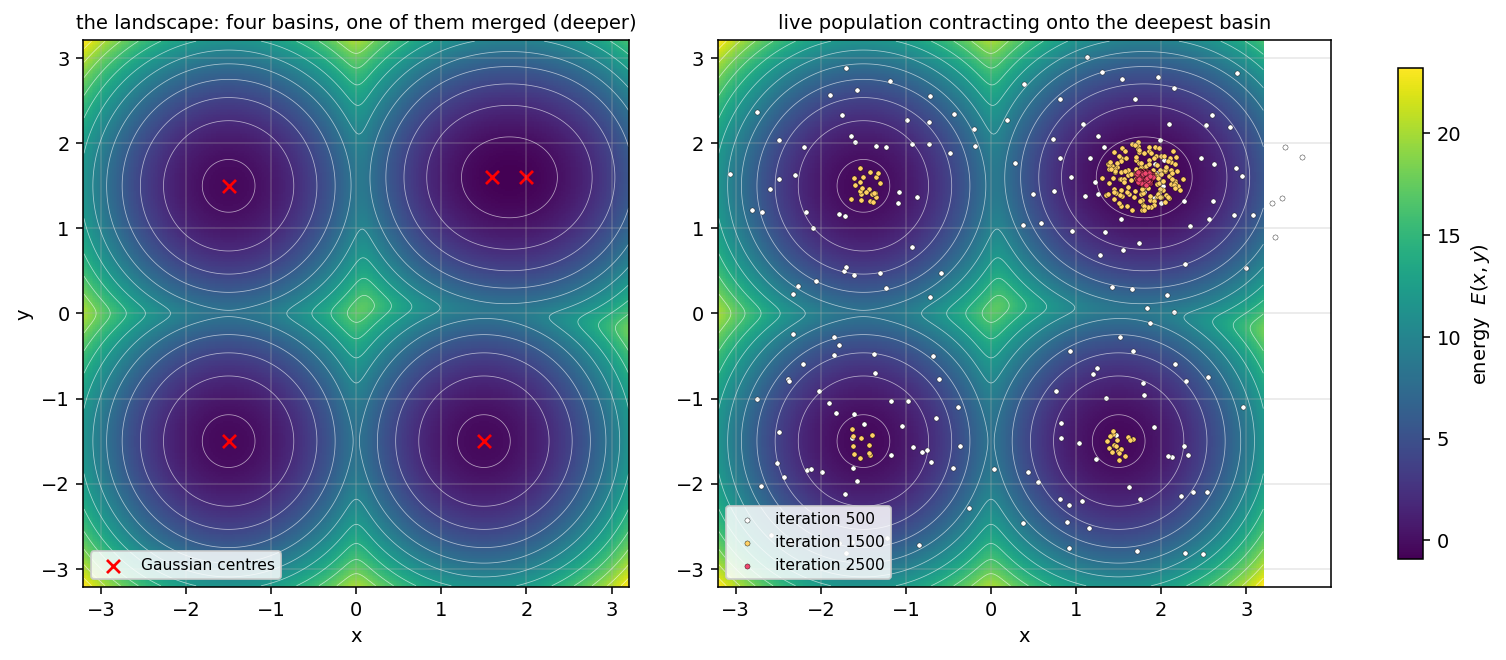
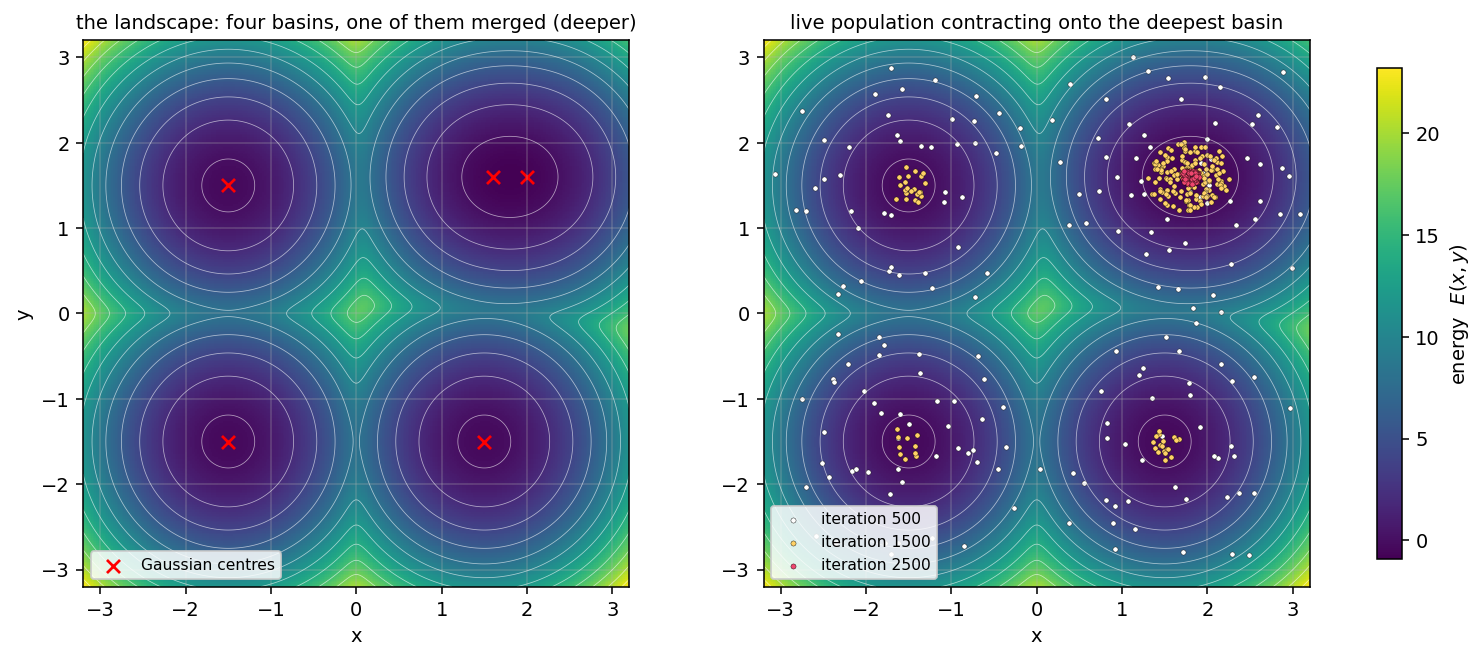
Refined gaussian and toy tutorial

diff --git a/docs/_static/figures/generate.py b/docs/_static/figures/generate.py
@@ -554,20 +554,30 @@ _TUT = FIGDIR.parents[2] / "examples" / "tutorials"
 _TUTFIG = FIGDIR / "tutorials"
 
 
+def _tutorial_config(name: str) -> dict:
+    """Load a tutorial's YAML config.
+
+    The surface figures are built from the same file the tutorial tells the
+    reader to run, so tuning a parameter moves the plot with it instead of
+    leaving the two quietly disagreeing.
+    """
+    import yaml
+
+    with open(_TUT / name / "config.yaml") as fh:
+        return yaml.safe_load(fh)
+
+
 def fig_gauss2d_surface() -> None:
     """Gaussian-mixture landscape, with the walker population contracting."""
     import jax.numpy as jnp
 
     from jaxrens.backends.toy import create_gaussian_mixture
 
-    centers = [
-        [-1.5, -1.5, 0.0],
-        [1.5, -1.5, 0.0],
-        [-1.5, 1.5, 0.0],
-        [1.60, 1.60, 0.0],
-        [2.00, 1.60, 0.0],
-    ]
-    backend = create_gaussian_mixture(centers=centers, sigma=0.35)
+    cfg = _tutorial_config("00_gaussian_2d")
+    centers = cfg["backend"]["centers"]
+    backend = create_gaussian_mixture(
+        centers=centers, sigma=cfg["backend"]["sigma"]
+    )
 
     lim = 3.2
     n = 320
@@ -594,6 +604,10 @@ def fig_gauss2d_surface() -> None:
         ax.contour(X, Y, E, levels=14, colors="w", linewidths=0.4, alpha=0.6)
         ax.set_xlabel("x")
         ax.set_aspect("equal")
+        # Pin the limits: the scatter overlay would otherwise stretch the
+        # right-hand panel and the two would no longer be comparable.
+        ax.set_xlim(-lim, lim)
+        ax.set_ylim(-lim, lim)
     axes[0].set_ylabel("y")
     fig.colorbar(im, ax=axes, label="energy  $E(x, y)$", shrink=0.9)
 
@@ -648,47 +662,54 @@ def fig_rens_toy_surface() -> None:
 
     from jaxrens.backends.toy import create_rens_toy
 
+    # Parameters come from the tutorial's own config, not from literals here:
+    # the figure has to show the surface the tutorial actually samples, and a
+    # second copy of these numbers would drift the first time either is tuned.
+    cfg = _tutorial_config("01_rens_toy")
     backend = create_rens_toy(
-        eps_rep=1.0,
-        h_rep=3.0,
-        eps_attr=1.0,
-        mu=1.0,
-        sigma=0.2,
-        r_cut=3.0,
-        n_images=8,
+        **{
+            k: v
+            for k, v in cfg["backend"].items()
+            if k not in ("type", "periodic")
+        }
     )
-    pressures = [0.5, 1.0, 1.5]
+    pressures = list(cfg["ensemble"]["pressure"])
 
+    # d on the horizontal axis, a on the vertical: the irreducible region
+    # d <= a/2 is then the *upper-left* wedge, which is how the paper orients
+    # it.  (With a horizontal it lands lower-right and reads inverted.)
     n = 260
     a_grid = np.linspace(0.5, 4.0, n)
     d_grid = np.linspace(0.0, 2.0, n)
-    A, D = np.meshgrid(a_grid, d_grid)
+    D, A = np.meshgrid(d_grid, a_grid)
 
     types = jnp.zeros(2, dtype=int)
     U = np.empty(A.shape)
     for i in range(A.shape[0]):
         for j in range(A.shape[1]):
-            a, d = A[i, j], D[i, j]
+            a, d = float(A[i, j]), float(D[i, j])
             pos = jnp.array([[0.0, 0.0, 0.0], [float(d), 0.0, 0.0]])
             cell = jnp.diag(jnp.array([float(a), 1.0, 1.0]))
             U[i, j] = float(backend(pos, types, cell).energy)
 
     # Irreducible wedge: d and a - d describe the same configuration under
-    # periodicity, so everything above d = a/2 is a mirror image.  Masking it
+    # periodicity, so everything with d > a/2 is a mirror image.  Masking it
     # is what makes the surface readable -- and matches Figure 3a of the paper.
     wedge = D <= A / 2.0
 
     fig, axes = plt.subplots(
-        1, 3, figsize=(13, 4.0), sharey=True, constrained_layout=True
+        1, 3, figsize=(12, 4.4), sharey=True, constrained_layout=True
     )
     for ax, P in zip(axes, pressures, strict=False):
         H = np.where(wedge, U + P * A, np.nan)
-        im = ax.pcolormesh(A, D, H, cmap="viridis", shading="auto")
-        ax.contour(A, D, H, levels=16, colors="w", linewidths=0.4, alpha=0.6)
-        ax.plot(a_grid, a_grid / 2.0, color="k", lw=1.0)
-        ax.set_xlabel("box length  $a$")
+        im = ax.pcolormesh(D, A, H, cmap="viridis", shading="auto")
+        ax.contour(D, A, H, levels=16, colors="w", linewidths=0.4, alpha=0.6)
+        ax.plot(a_grid / 2.0, a_grid, color="k", lw=1.0)
+        ax.set_xlabel("separation  $d$")
+        ax.set_xlim(d_grid[0], d_grid[-1])
+        ax.set_ylim(a_grid[0], a_grid[-1])
         ax.set_title(f"$P = {P}$", fontsize=10)
-    axes[0].set_ylabel("separation  $d$")
+    axes[0].set_ylabel("box length  $a$")
     fig.colorbar(im, ax=axes, label="enthalpy  $H = U + P a$", shrink=0.9)
     fig.suptitle(
         "irreducible wedge of the toy-model enthalpy surface "

diff --git a/src/jaxrens/backends/toy.py b/src/jaxrens/backends/toy.py
@@ -96,14 +96,16 @@ class RENSToyBackend:
     the physics, so it only needs to be large enough that
     ``n_images * a_min >= r_cut`` for the smallest box the prior allows.
 
-    Self-images (``i == j``, ``n != 0``) are **excluded**, following the
-    ``i != j`` restriction in eq 17.
+    Self-images (``i == j``, ``n != 0``) are **included** -- a particle
+    interacts with its own periodic images, and at box lengths near ``mu``
+    that term dominates.  Only the ``i == j``, ``n == 0`` self-term is
+    dropped.
     """
 
     def __init__(
         self,
-        eps_rep: float = 1.0,
-        h_rep: float = 3.0,
+        eps_rep: float = 10.0,
+        h_rep: float = 8.0,
         eps_attr: float = 1.0,
         mu: float = 1.0,
         sigma: float = 0.2,
@@ -138,17 +140,22 @@ class RENSToyBackend:
         x = positions[:, 0]
         a = cell[0, 0]
 
-        # All ordered pairs, then mask the diagonal: i != j, counted twice and
-        # halved, exactly as eq 17 is written.
+        # Full lattice sum: every ordered pair against every periodic image,
+        # counted twice and halved.  The ONLY term excluded is a particle
+        # with its own image at zero shift -- a particle does interact with
+        # its own images at n*a, and dropping those would remove the whole
+        # a-dependence of the energy at small box lengths, where n*a is
+        # comparable to mu and the contribution is strongly attractive.
         dx = x[:, None] - x[None, :]
-        off_diagonal = 1.0 - jnp.eye(x.shape[0])
-
         shifts = jnp.arange(-self.n_images, self.n_images + 1) * a
         d = jnp.abs(dx[:, :, None] + shifts[None, None, :])
 
-        within = d <= self.r_cut
+        self_term = jnp.eye(x.shape[0], dtype=bool)[:, :, None] & (
+            shifts[None, None, :] == 0.0
+        )
+        within = (d <= self.r_cut) & ~self_term
         pair = jnp.where(within, self.pair_energy(d), 0.0)
-        energy = 0.5 * jnp.sum(pair * off_diagonal[:, :, None])
+        energy = 0.5 * jnp.sum(pair)
 
         return BackendResult(energy=energy)
 
@@ -213,8 +220,8 @@ def create_double_well(a: float = 1.0, b: float = 1.0) -> DoubleWellBackend:
 
 
 def create_rens_toy(
-    eps_rep: float = 1.0,
-    h_rep: float = 3.0,
+    eps_rep: float = 10.0,
+    h_rep: float = 8.0,
     eps_attr: float = 1.0,
     mu: float = 1.0,
     sigma: float = 0.2,

diff --git a/src/jaxrens/cli/schema/backend.py b/src/jaxrens/cli/schema/backend.py
@@ -345,11 +345,16 @@ class RENSToyBackendSpec(BaseBackendSpec):
         description="Discriminator selecting this backend.",
     )
     eps_rep: float = Field(
-        default=1.0,
-        description="Height of the repulsive core, ``E_rep`` (eq 14).",
+        default=10.0,
+        description=(
+            "Height of the repulsive core, ``E_rep`` (eq 14).  The core is a "
+            "Gaussian and therefore *bounded*: set it too low and the two "
+            "particles simply interpenetrate, since the attraction from "
+            "their periodic self-images outweighs a finite overlap cost."
+        ),
     )
     h_rep: float = Field(
-        default=3.0,
+        default=8.0,
         description=(
             "Decay constant of the repulsive core; larger values make the "
             "repulsion narrower."

diff --git a/docs/reference/files.rst b/docs/reference/files.rst
@@ -184,12 +184,41 @@ covers every replica.
     ``n_evaluations`` / ``n_grad_evaluations`` int64 and
     ``reject_reason_counts`` of shape ``(N, n_runs, n_moves, 4)`` — the four
     buckets being accepted, likelihood, cell-geometry and prior rejection.
-    Read with :class:`~jaxrens.io.adaptation_log.AdaptationLogger`.
+
+    .. dropdown:: Load it in Python
+
+       .. code-block:: python
+
+          from jaxrens.io.adaptation_log import AdaptationLogger
+
+          log = AdaptationLogger.read("output/ns.adaptation.h5")
+          log.iterations          # (N,)                     int64
+          log.step_sizes          # (N, n_runs, n_moves)     float32
+          log.acceptance_rates    # (N, n_runs, n_moves)     float32
+          log.n_evaluations       # (N, n_runs, n_moves)     int64
+
+          # Acceptance of move 0 in replica 0, over the run:
+          log.acceptance_rates[:, 0, 0]
 
 ``<prefix>.acc_rates.h5``
     Opt-in via ``output.save_acc_rates``.  Raw ``n_accepted`` and
     ``n_proposed`` counts, ``(N, n_runs, n_moves)`` int64 — the unaggregated
-    form of what ``adaptation.h5`` stores as rates.
+    form of what ``adaptation.h5`` stores as rates.  Use it when you want to
+    pool counts over a window rather than average ratios.
+
+    .. dropdown:: Load it in Python
+
+       .. code-block:: python
+
+          from jaxrens.io.acc_rates_log import AccRatesLogger
+
+          log = AccRatesLogger.read("output/ns.acc_rates.h5")
+          log.iterations   # (N,)                   int64
+          log.n_accepted   # (N, n_runs, n_moves)   int64
+          log.n_proposed   # (N, n_runs, n_moves)   int64
+
+          # Pooled acceptance per move for replica 0 (counts, not mean-of-ratios):
+          rate = log.n_accepted[:, 0, :].sum(0) / log.n_proposed[:, 0, :].sum(0)
 
 ``<prefix>.max_neighbors.h5``
     Opt-in via ``output.save_max_neighbors``, and a no-op for backends with
@@ -197,12 +226,43 @@ covers every replica.
     int32 against ``bucket_size`` ``(N, n_runs)`` int32 and an ``overflow``
     bool — this is how you size ``backend.max_neighbors_list``.
 
+    .. dropdown:: Load it in Python
+
+       .. code-block:: python
+
+          from jaxrens.io.max_neighbors_log import MaxNeighborsLogger
+
+          log = MaxNeighborsLogger.read("output/ns.max_neighbors.h5")
+          log.iterations          # (N,)                        int64
+          log.max_neighbor_count  # (N, n_runs, n_walkers)      int32
+          log.bucket_size         # (N, n_runs)                 int32
+          log.overflow            # (N, n_runs)                 bool
+
+          # Headroom actually used: how close the worst walker came to the rung.
+          headroom = log.bucket_size[:, 0] - log.max_neighbor_count[:, 0].max(-1)
+
 ``<prefix>.re_stats.h5``
     Opt-in via ``output.save_re_stats``, and only meaningful with
     ``inter_re``.  ``n_accepted_per_pair`` and ``n_attempted_per_pair``, both
     ``(N, n_pairs)`` int32 with ``n_pairs = n_runs - 1``, plus the swap
-    ``flavor``.  Its cadence follows ``inter_re.re_interval``.  Read with
-    :class:`~jaxrens.io.re_stats_log.RELogger`.
+    ``flavor``.  Its cadence follows ``inter_re.re_interval``.
+
+    .. dropdown:: Load it in Python
+
+       .. code-block:: python
+
+          from jaxrens.io.re_stats_log import RELogger
+
+          log = RELogger.read("output/ns.re_stats.h5")
+          log.iterations             # (N,)            int64
+          log.n_accepted_per_pair    # (N, n_pairs)    int32
+          log.n_attempted_per_pair   # (N, n_pairs)    int32
+          log.n_pairs, log.flavor
+          log.acceptance_rates       # (N, n_pairs) float32, 0 where none attempted
+
+          # Overall acceptance per adjacent pair -- a rung near 0 needs splitting:
+          per_pair = (log.n_accepted_per_pair.sum(0)
+                      / log.n_attempted_per_pair.sum(0))
 
 
 ``.log``

diff --git a/docs/tutorials/01_rens_toy.md b/docs/tutorials/01_rens_toy.md
@@ -38,6 +38,22 @@ at $a \approx \mu, 2\mu, 3\mu, \dots$ **That** is the point. Independent NS
 runs at different pressures fall into different basins and stay there; replica
 exchange is what lets them escape.
 
+```{image} ../_static/figures/tutorials/rens_toy_surface.png
+:alt: irreducible wedge of the toy-model enthalpy surface at three pressures
+:width: 100%
+```
+
+Only the wedge $d \leq a/2$ is shown. Under periodicity a separation $d$ and
+$a - d$ describe the same configuration, so everything above the diagonal is a
+mirror image; masking it is what makes the structure readable.
+
+Read the three panels left to right and the tutorial's result is already
+visible. At $P = 0.5$ the deepest basin sits at $a \approx 2, d \approx 1$ —
+both particles in the attractive well with the box commensurate. As pressure
+rises the $P a$ term tilts the surface toward small $a$, and by $P = 1.5$ the
+compressed basin near $a \approx 1$ has taken over. Three replicas, two
+competing minima, and a swap is the only cheap way across.
+
 :::{note}
 The parameter values below are sensible defaults, not the paper's — they
 reproduce the qualitative behaviour (repulsive core, attractive well,

diff --git a/docs/tutorials/00_gaussian_2d.md b/docs/tutorials/00_gaussian_2d.md
@@ -24,6 +24,20 @@ That asymmetry is the whole exercise. Nested sampling has to find the deeper
 basin *without being told where it is*, by shrinking a contour of constant
 energy until only that basin survives inside it.
 
+```{image} ../_static/figures/tutorials/gauss2d_surface.png
+:alt: the Gaussian-mixture energy surface, and the walker population contracting onto the deepest basin
+:width: 100%
+```
+
+Left: the surface itself, with the five Gaussian centres marked — note the two
+at the top right sitting almost on top of each other, which is what makes that
+basin deeper than the rest. Right: the live population, dumped every 500
+iterations by `output.snapshot_interval`. At iteration 500 the walkers are
+spread across all four basins; by 1500 each basin holds a tight cluster; by
+2500 only the merged one is still occupied. That contraction *is* the
+algorithm — everything the log prints below is a number describing this
+picture.
+
 ## The config
 
 `examples/tutorials/00_gaussian_2d/config.yaml`:
